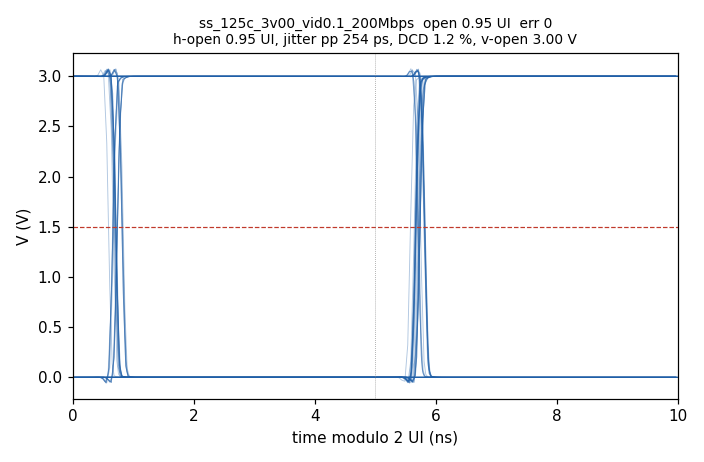
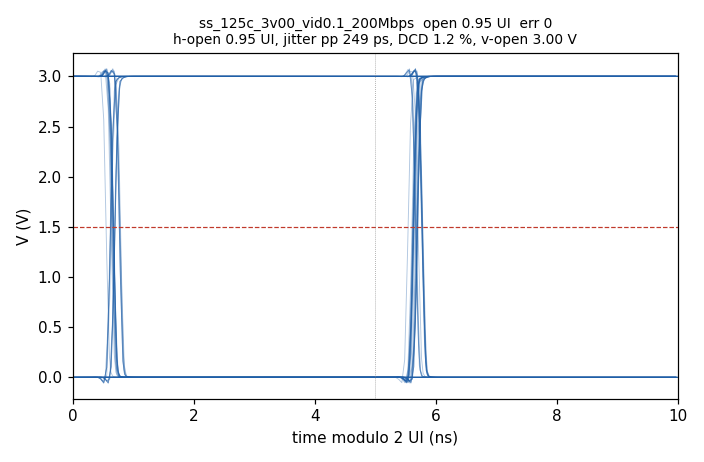
LVDS RX: gallery refreshed with frozen-sizing eye diagrams and final pre-layout status

diff --git a/analog/lvds_rx/docs/figures/index.html b/analog/lvds_rx/docs/figures/index.html
@@ -29,7 +29,7 @@
 <body>
 <main>
 <h1>LVDS receiver <code>lvds_rx_x3</code>: circuit and simulation gallery</h1>
-<p class="sub">Three-lane LVDS receiver macro in GF180MCU 3.3 V devices. State on 2026-11-13: schematic and pre-layout simulation only. No layout of the macro exists yet.</p>
+<p class="sub">Three-lane LVDS receiver macro in GF180MCU 3.3 V devices. State on 2026-11-14: schematic frozen, pre-layout simulation complete. No layout of the macro exists yet.</p>
 
 <p class="note">The schematics below were drawn by hand (by script) from the netlist <code>netlist/lvds_rx_core.spice</code>; they are not generated from it. The waveform plots are single runs at the typical corner (27 &deg;C, 3.3 V) with ideal sources, made as illustrations. The pass/fail record of the design is the regression in <code>results/</code>, not these pictures.</p>
 
@@ -78,7 +78,7 @@
 <li>A resistor divider makes VREF = 0.48 &times; VDD for the dump devices; Cvref keeps it quiet.</li>
 <li>EN = 0 opens every branch, so the macro draws almost no current when off.</li>
 </ul>
-<p><b>Known weakness:</b> this simple bias lets the currents change with supply, temperature and process (up to +60 % at the fast, hot, high-supply corner). It is the cause of the saturation-margin relaxation (decision D-012) that still needs review. A constant-gm bias is the planned upgrade if it turns out to be needed.</p>
+<p><b>Known weakness:</b> this simple bias lets the currents change with supply, temperature and process (up to +60 % at the fast, hot, high-supply corner). It is the cause of the saturation-margin relaxation (decision D-012), which the audit accepted on condition that this corner is re-checked after layout. A constant-gm bias is the planned upgrade if it turns out to be needed.</p>
 <figure><img src="schematic_bias.png" alt="Bias schematic">
 <figcaption>Bias (<code>lvds_bias</code>), one copy for all three lanes.</figcaption></figure>
 <p>Not drawn: each input pin also passes through a small protection cell (a series resistor and two diodes). That cell is flagged <b>unqualified</b>: it has not been tested as ESD protection.</p>
@@ -100,27 +100,26 @@
 <h3>From the regression: eye diagrams</h3>
 <div class="two">
 <figure><img src="eye_tt_200Mbps_vid100mV.png" alt="Eye diagram typical">
-<figcaption>Typical corner, 200 Mb/s, &plusmn;100 mV. All bits overlaid: the edges land in the same place (51 ps spread), so the "eye" is wide open.</figcaption></figure>
+<figcaption>Typical corner, 200 Mb/s, &plusmn;100 mV. All bits overlaid: the edges land in the same place (about 50 ps spread), so the "eye" is wide open.</figcaption></figure>
 <figure><img src="eye_ss125c_200Mbps_vid100mV.png" alt="Eye diagram slow hot">
-<figcaption>Slow transistors, 125 &deg;C, 3.0 V: the hardest corner for speed.</figcaption></figure>
+<figcaption>Slow transistors, 125 &deg;C, 3.0 V: the hardest corner for speed. The edges spread over about 250 ps and the eye is still 95 % open, with no bit errors.</figcaption></figure>
 </div>
-<p class="note">These two eye diagrams come from the first full regression, which ran before the last bias adjustment (one bias voltage changed, stage-1 gain 5.10 to 4.78 minimum). They have not been re-run on the current sizing.</p>
+<p>Both eye diagrams are from the full regression on the frozen sizing (2026-11-14).</p>
 
 <h3>From the regression: Monte Carlo histograms (current sizing)</h3>
 <div class="two">
 <figure><img src="hist_offset_tt.png" alt="Offset histogram">
 <figcaption>Input offset of 1,000 randomly mismatched copies at the typical corner: spread (sigma) 3.1 mV. Green lines are the &plusmn;95 mV budget.</figcaption></figure>
 <figure><img src="hist_hysteresis_ff_m40c.png" alt="Hysteresis histogram">
-<figcaption>Hysteresis of 100 copies at the fast, cold, 3.6 V corner. The green lines are the original 8 to 25 mV window; a few copies fall just under 8 mV, which is why the window was widened to 6 to 35 mV (decision D-009, still to be reviewed).</figcaption></figure>
+<figcaption>Hysteresis of 100 copies at the fast, cold, 3.6 V corner. The green lines are the original 8 to 25 mV window; a few copies fall just under 8 mV, which is why the window was widened to 6 to 35 mV (decision D-009, accepted in the audit).</figcaption></figure>
 </div>
 
 <h2>4. Where things stand</h2>
 <table>
-<tr><th>Item</th><th>State on 2026-11-13</th></tr>
-<tr><td>Schematic (netlist) and sizing</td><td>Done, not yet frozen</td></tr>
-<tr><td>Operating point, gain, trip point, offset, hysteresis</td><td>Pass at all corners and Monte Carlo on the current sizing (some limits relaxed, pending review)</td></tr>
-<tr><td>Delay, eye, supply noise, input range, lane crosstalk, package</td><td>Passed on the previous sizing; re-run deferred</td></tr>
-<tr><td>Idle and enable behaviour</td><td>Re-run in progress</td></tr>
+<tr><th>Item</th><th>State on 2026-11-14</th></tr>
+<tr><td>Schematic (netlist) and sizing</td><td>Done and frozen (<code>sizing/FROZEN.md</code>)</td></tr>
+<tr><td>Pre-layout regression</td><td>All 17 gates pass on the frozen sizing: 21,017 simulation runs over up to 47 corners plus Monte Carlo</td></tr>
+<tr><td>Pre-layout audit</td><td>Pass with findings (<code>results/AUDIT_1.md</code>). Six limit or test changes were accepted; one of them (saturation margin at the fast, hot, 3.6 V corner) only with conditions to re-check after layout</td></tr>
 <tr><td>Layout</td><td>Building blocks only (29 small cells, DRC/LVS clean); the lane and macro are not drawn</td></tr>
 </table>
 <p class="sub">Files: <code>docs/figures/draw_schematic.py</code> draws the schematics, <code>docs/figures/make_waveforms.py</code> runs and plots the three illustration simulations.</p>
